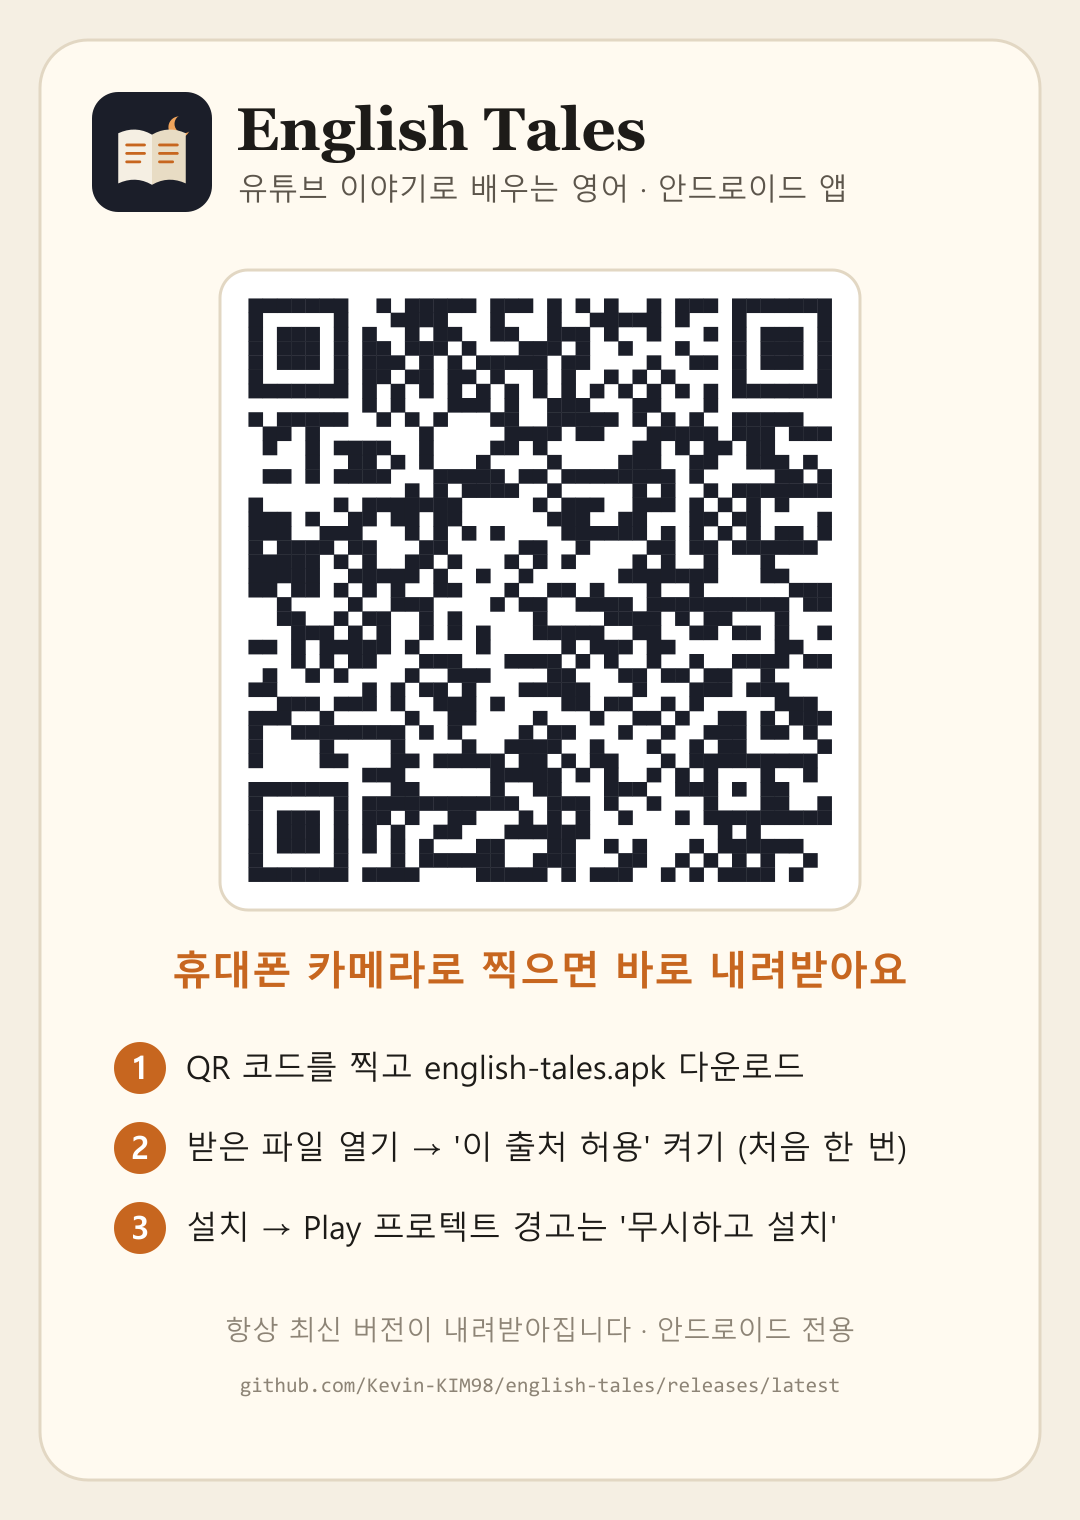
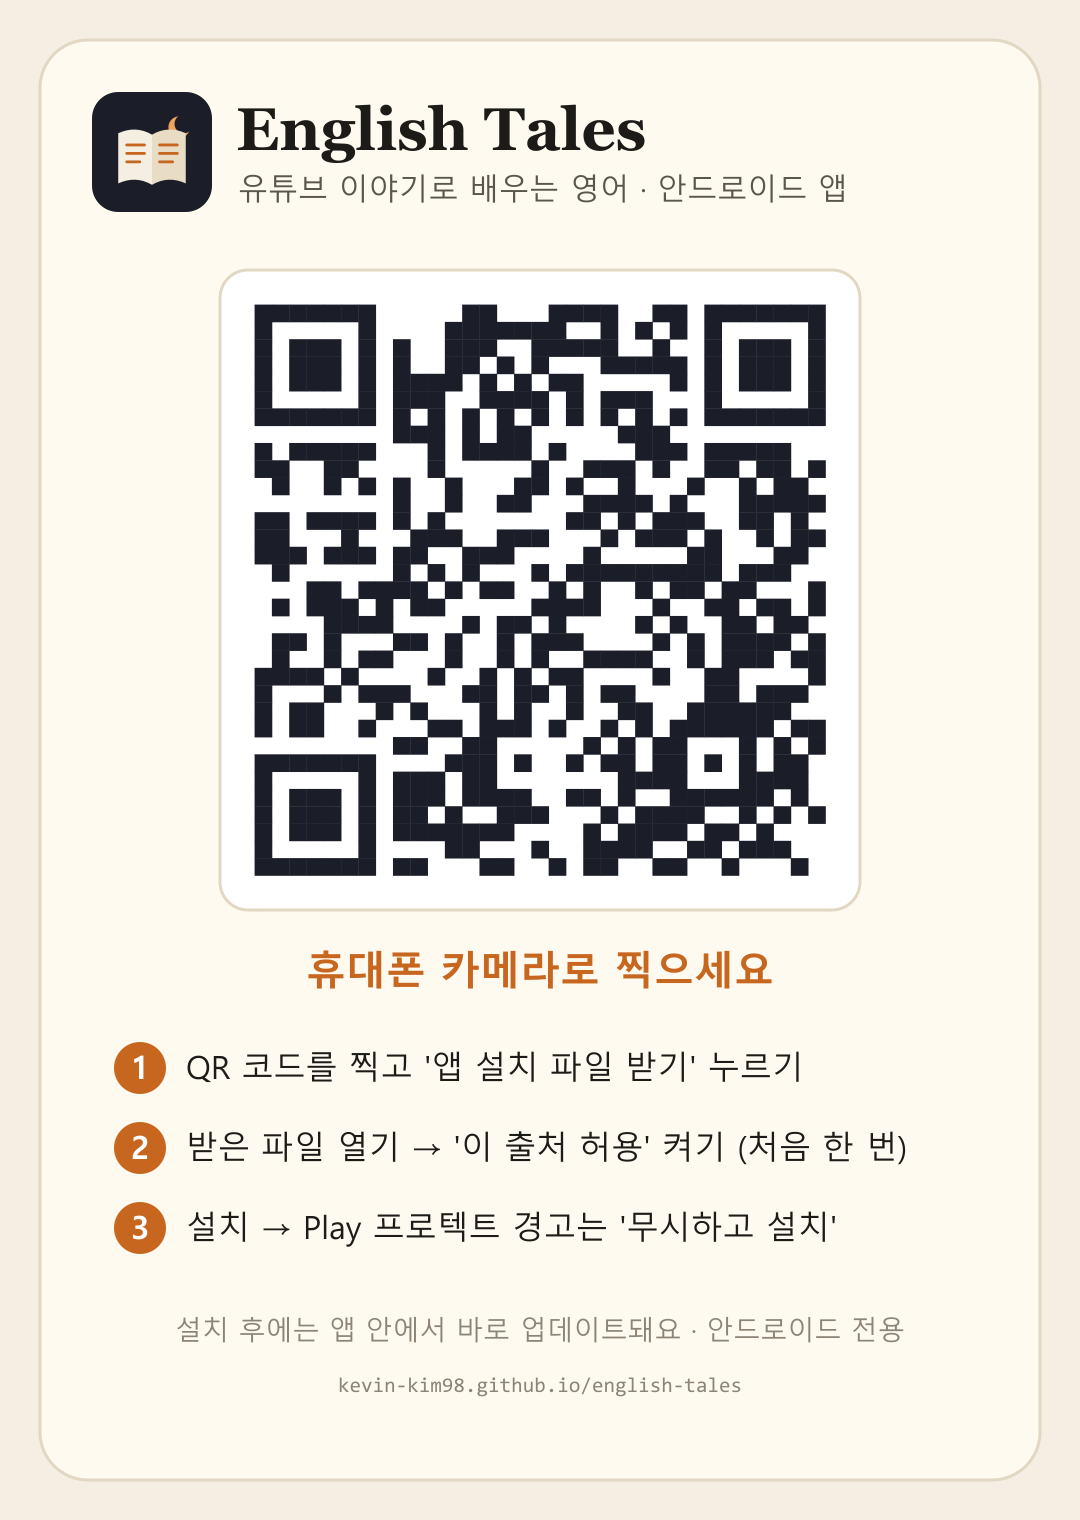
앱 안에서 바로 업데이트 + 설치 QR 404 해결 (GitHub Pages 설치 페이지) (#6)
- 앱 안 업데이트: @capgo/capacitor-updater(자체 호스팅, 외부 전송 없음)로
  새 코드 묶음(web-*.zip)을 내려받아 앱 안에서 바로 적용 — APK 재설치 없음.
  앱 시작·복귀 때 확인해 뒤에서 받아 두고 다음 실행 때 자동 적용, 알림을 누르면 즉시 적용.
  새 코드가 실행에 실패하면 이전 버전으로 자동 복구(notifyAppReady).
- 네이티브(플러그인·android/)가 바뀐 경우에만 새 APK 안내: package.json nativeVersion 과
  APK versionName '1.0.N (nX)' 비교
- 설치 QR 404: github.com 링크가 GitHub 앱·카메라 앱 안에서 열리며 실패하던 문제 →
  GitHub Pages(kevin-kim98.github.io/english-tales) 설치 페이지와 APK로 옮기고 QR 다시 생성
- 배포: main 머지 때 Pages 에 설치 페이지·APK·update.json·web zip 배포, Release 에도 기록

diff --git a/public/lib/update.js b/public/lib/update.js
@@ -1,25 +1,81 @@
-// 앱 업데이트 확인: GitHub Releases 의 최신 APK 와 설치된 빌드 번호를 비교한다
+// 앱 안에서 업데이트
+// - 화면·기능(웹 코드)만 바뀐 경우: 새 코드 묶음(zip)을 내려받아 앱 안에서 바로 적용 (APK 재설치 없음)
+//   → @capgo/capacitor-updater (자체 호스팅 모드, 외부 서버·통계 전송 없음)
+// - 안드로이드 네이티브 부분(플러그인 등)이 바뀐 경우에만 새 APK 설치가 필요
+// 업데이트 파일은 GitHub Pages(https://kevin-kim98.github.io/english-tales/)에 main 머지 때마다 올라간다.
 import info from '../build-info.js';
-import { http } from './net.js';
+import { http, isNative } from './net.js';
 
 export const appInfo = info;
+export const SITE = 'https://kevin-kim98.github.io/english-tales/';
 
-/** @returns {Promise<null | { version: string, build: number, url: string, notes: string }>} */
-export async function checkUpdate() {
-  if (!info.repo) return null;
-  const res = await http(`https://api.github.com/repos/${info.repo}/releases/latest`, {
-    headers: { Accept: 'application/vnd.github+json', 'User-Agent': 'english-tales-app' },
-    timeout: 10000,
-  });
-  if (!res.ok) return null;
-  const rel = res.json();
-  const build = Number(String(rel.tag_name).split('.').pop());
-  const apk = rel.assets?.find((a) => a.name.endsWith('.apk'));
-  if (!apk || !(build > info.build)) return null;
-  return { version: rel.tag_name.replace(/^v/, ''), build, url: apk.browser_download_url, notes: rel.body || '' };
+const updater = () => globalThis.Capacitor?.Plugins?.CapacitorUpdater;
+const AppPlugin = () => globalThis.Capacitor?.Plugins?.App;
+
+/** 설치된 APK의 네이티브 수준 (versionName '1.0.12 (n2)' 의 n2). 업데이트 기능이 없던 예전 APK는 0 */
+async function installedNative() {
+  if (!isNative()) return Infinity;
+  try {
+    const { version } = await AppPlugin().getInfo();
+    return Number(String(version).match(/\(n(\d+)\)/)?.[1] || 0);
+  } catch {
+    return 0;
+  }
 }
 
-/** APK 받기: 시스템 브라우저로 열면 내려받은 뒤 '설치' 를 누를 수 있다 */
+/** 앱이 정상적으로 떴음을 알린다. 이걸 안 부르면 새 코드에 문제가 있다고 보고 이전 버전으로 되돌린다. */
+export function markAppReady() {
+  updater()?.notifyAppReady?.().catch(() => {});
+}
+
+/**
+ * @returns {Promise<null | { version, build, kind: 'web'|'apk', web, apk, notes }>}
+ */
+export async function checkUpdate() {
+  const res = await http(`${SITE}update.json?t=${Date.now()}`, { timeout: 10000 });
+  if (!res.ok) return null;
+  const u = res.json();
+  if (!(u.build > info.build)) return null;
+  const needsApk = u.native > (await installedNative()) || !updater();
+  return {
+    version: u.version,
+    build: u.build,
+    kind: needsApk ? 'apk' : 'web',
+    web: SITE + u.web,
+    apk: SITE + (u.apk || 'english-tales.apk'),
+    notes: u.notes || '',
+  };
+}
+
+let downloaded = null; // { build, id } 이미 받아 둔 새 코드
+
+/** 새 코드를 뒤에서 내려받아 둔다. 다음에 앱을 다시 열 때 자동 적용 (next) */
+export async function prepareWebUpdate(u, onProgress) {
+  const up = updater();
+  if (!up || u.kind !== 'web') return null;
+  if (downloaded?.build === u.build) return downloaded;
+  const handle = onProgress ? await up.addListener('download', (e) => onProgress(e.percent ?? 0)) : null;
+  try {
+    const bundle = await up.download({ url: u.web, version: u.version });
+    await up.next({ id: bundle.id });
+    downloaded = { build: u.build, id: bundle.id };
+    return downloaded;
+  } finally {
+    handle?.remove?.();
+  }
+}
+
+/** 지금 바로 업데이트: 웹 코드는 내려받아 즉시 적용(앱이 새로 뜸), 네이티브 변경은 APK 내려받기 */
+export async function applyUpdate(u, onProgress) {
+  if (u.kind === 'web') {
+    const d = await prepareWebUpdate(u, onProgress);
+    await updater().set({ id: d.id }); // 이 줄에서 앱이 새 버전으로 다시 시작된다
+    return;
+  }
+  openDownload(u.apk);
+}
+
+/** APK 받기: 시스템 브라우저로 열면 내려받은 뒤 '설치' 를 누를 수 있다 (github.com 이 아닌 Pages 주소) */
 export function openDownload(url) {
   const browser = globalThis.Capacitor?.Plugins?.Browser;
   if (browser) browser.open({ url });

diff --git a/site/index.html b/site/index.html
@@ -1,0 +1,81 @@
+<!doctype html>
+<html lang="ko">
+<head>
+  <meta charset="utf-8" />
+  <meta name="viewport" content="width=device-width, initial-scale=1" />
+  <title>English Tales 설치</title>
+  <meta name="description" content="유튜브 이야기로 배우는 영어 — 안드로이드 앱 설치" />
+  <link rel="icon" href="icon.svg" type="image/svg+xml" />
+  <style>
+    :root {
+      --paper: #f5efe3; --card: #fffaf0; --ink: #1d1b18; --ink-2: #5c554b; --ink-3: #8d8476;
+      --line: #e2d7c3; --accent: #c7661f; --accent-ink: #fff; --accent-soft: #f6dcc2;
+    }
+    @media (prefers-color-scheme: dark) {
+      :root { --paper: #12141c; --card: #1b1e29; --ink: #f1ebdf; --ink-2: #b9b1a3; --ink-3: #847d71; --line: #2c3142; --accent: #f0a45b; --accent-ink: #1a1206; --accent-soft: #3a2a1c; }
+    }
+    * { box-sizing: border-box; }
+    body { margin: 0; background: var(--paper); color: var(--ink); font: 16px/1.6 system-ui, -apple-system, 'Apple SD Gothic Neo', 'Malgun Gothic', sans-serif; }
+    main { max-width: 480px; margin: 0 auto; padding: 28px 16px 40px; }
+    .head { display: flex; gap: 14px; align-items: center; }
+    .head img { width: 64px; height: 64px; border-radius: 16px; }
+    h1 { font: 700 28px/1.2 Georgia, serif; margin: 0; }
+    .sub { color: var(--ink-2); font-size: 14px; }
+    .card { background: var(--card); border: 1px solid var(--line); border-radius: 18px; padding: 18px; margin-top: 18px; }
+    .dl { display: flex; align-items: center; justify-content: center; gap: 8px; width: 100%; min-height: 56px; border-radius: 16px; background: var(--accent); color: var(--accent-ink); font-size: 18px; font-weight: 700; text-decoration: none; }
+    .ver { text-align: center; color: var(--ink-3); font-size: 13px; margin-top: 8px; }
+    ol { padding-left: 22px; margin: 6px 0 0; }
+    li { margin: 8px 0; }
+    b { color: var(--accent); }
+    .note { font-size: 13.5px; color: var(--ink-2); }
+    .note code { background: var(--accent-soft); padding: 1px 6px; border-radius: 6px; word-break: break-all; }
+    h2 { font-size: 16px; margin: 0 0 4px; }
+  </style>
+</head>
+<body>
+  <main>
+    <div class="head">
+      <img src="icon.svg" alt="" />
+      <div>
+        <h1>English Tales</h1>
+        <div class="sub">유튜브 이야기로 배우는 영어 · 안드로이드 앱</div>
+      </div>
+    </div>
+
+    <div class="card">
+      <a class="dl" href="english-tales.apk" download>⬇ 앱 설치 파일 받기</a>
+      <div class="ver" id="ver">최신 버전</div>
+    </div>
+
+    <div class="card">
+      <h2>설치 순서</h2>
+      <ol>
+        <li>위 버튼으로 <b>english-tales.apk</b> 를 내려받습니다.</li>
+        <li>받은 파일을 열고, 처음 한 번은 <b>이 출처 허용</b>을 켭니다.</li>
+        <li><b>설치</b>를 누릅니다. Play 프로텍트 경고가 나오면 <b>무시하고 설치</b>.</li>
+      </ol>
+    </div>
+
+    <div class="card note">
+      <h2>설치한 뒤에는</h2>
+      새 버전은 <b>앱 안에서 바로 업데이트</b>됩니다. 앱 첫 화면의 "새 버전" 알림을 누르거나, 그냥 두면 다음에 앱을 열 때 자동으로 적용돼요.
+      이 페이지는 처음 설치할 때만 필요합니다.
+    </div>
+
+    <div class="card note">
+      <h2>파일이 안 받아질 때</h2>
+      GitHub 앱이나 카메라 앱 안에서 열렸다면, 오른쪽 위 메뉴의 <b>브라우저에서 열기</b>(Chrome·삼성 인터넷)를 누른 뒤 다시 받아 보세요.<br />
+      주소: <code>kevin-kim98.github.io/english-tales</code>
+    </div>
+  </main>
+  <script>
+    fetch('update.json?t=' + Date.now())
+      .then((r) => r.json())
+      .then((u) => {
+        const d = u.date ? ' · ' + new Date(u.date).toLocaleDateString('ko-KR') : '';
+        document.getElementById('ver').textContent = `최신 버전 ${u.version}${d} · 약 ${u.apkSizeMB || 4}MB · 안드로이드 전용`;
+      })
+      .catch(() => {});
+  </script>
+</body>
+</html>

diff --git a/dev/server.js b/dev/server.js
@@ -9,7 +9,7 @@ const here = path.dirname(fileURLToPath(import.meta.url));
 const PUBLIC = path.join(here, '..', 'public');
 const PORT = Number(process.env.PORT || 5173);
 const MIME = { '.html': 'text/html; charset=utf-8', '.js': 'text/javascript; charset=utf-8', '.css': 'text/css; charset=utf-8', '.svg': 'image/svg+xml', '.json': 'application/json', '.txt': 'text/plain; charset=utf-8' };
-const ALLOWED = /^https:\/\/(www\.youtube\.com|translate\.googleapis\.com|api\.mymemory\.translated\.net|api\.dictionaryapi\.dev|api\.github\.com)\//;
+const ALLOWED = /^https:\/\/(www\.youtube\.com|translate\.googleapis\.com|api\.mymemory\.translated\.net|api\.dictionaryapi\.dev|api\.github\.com|kevin-kim98\.github\.io)\//;
 
 async function readJson(req) {
   const chunks = [];

diff --git a/README.md b/README.md
@@ -8,16 +8,13 @@
 
 <p align="center"><img src="docs/install-qr-card.png" alt="English Tales 설치 QR 코드" width="360"></p>
 
-휴대폰 카메라로 QR 코드를 찍으면 **항상 최신 버전** APK가 바로 내려받아집니다.
-(주소: `https://github.com/Kevin-KIM98/english-tales/releases/latest/download/english-tales.apk`,
-QR만 있는 이미지: [docs/install-qr.png](docs/install-qr.png))
+1. 휴대폰 카메라로 QR 코드를 찍거나 **https://kevin-kim98.github.io/english-tales/** 를 엽니다.
+2. **앱 설치 파일 받기** → 받은 파일 열기 → 처음 한 번은 **이 출처 허용** → **설치**.
+3. **처음 한 번만 설치하면 끝.** 이후 프로그램을 수정해 main 에 머지하면
+   앱이 새 버전을 스스로 받아 **앱 안에서 바로 업데이트**합니다 (알림을 누르면 즉시, 그냥 두면 다음 실행 때 자동).
+   안드로이드 네이티브 부분(플러그인 등)을 바꾼 경우에만 앱이 새 설치 파일을 내려받게 안내합니다.
 
-
-1. 휴대폰에서 이 저장소의 [**Releases**](https://github.com/Kevin-KIM98/english-tales/releases/latest) 를 열고
-   `english-tales-v1.0.N.apk` 를 눌러 내려받습니다.
-2. 내려받은 파일을 열어 **설치** (처음 한 번은 "출처를 알 수 없는 앱 설치 허용"을 켜야 합니다).
-3. 이후 새 버전이 나오면 앱 첫 화면과 **설정 → 앱 정보**에 "업데이트"가 표시됩니다. 누르면 새 APK를 받아 덮어 설치합니다.
-   (학습 기록·단어장은 그대로 유지됩니다)
+> 카메라·GitHub 앱 안에서 열려 파일이 안 받아지면, 메뉴의 **브라우저에서 열기**를 누른 뒤 다시 받으세요.
 
 > 더 자연스러운 발음: 휴대폰 **설정 → 일반 → 텍스트 음성 변환(TTS)** 에서 엔진을 *Google 음성 서비스*로 하고
 > 영어(미국) 음성 데이터를 설치하세요. 앱 **설정 → 발음 → 음성 데이터** 버튼으로도 바로 갈 수 있습니다.
@@ -49,12 +46,15 @@ QR만 있는 이미지: [docs/install-qr.png](docs/install-qr.png))
 GitHub에서 수정 (새 브랜치 + Pull Request)
   └▶ CI 검사 (ci.yml: 빌드 데이터 생성 · 문법 검사 · 테스트)  ── 통과해야 머지 가능
        └▶ main 머지
-            └▶ Android Release (android.yml): 테스트 → APK 빌드·서명 → GitHub Release v1.0.<실행번호>
-                 └▶ 휴대폰 앱이 새 버전을 알려 줌 → 업데이트
+            └▶ Android Release (android.yml): 테스트 → APK 빌드·서명 + 앱 안 업데이트용 코드 묶음(web-*.zip)
+                 └▶ GitHub Pages(설치 페이지·APK·update.json) 배포 + GitHub Release 기록
+                      └▶ 휴대폰 앱이 update.json 확인 → 앱 안에서 바로 업데이트
 ```
 
 - 파일을 GitHub에서 열고 ✏ → **Create a new branch … and start a pull request** → 검사 ✅ → **Merge**.
 - `main` 은 보호되어 있어 PR + 검사 통과가 필요합니다.
+- `android/` 폴더나 안드로이드 플러그인(package.json 의 @capacitor…)을 바꾸면 `package.json` 의 **`nativeVersion`** 을 1 올리세요.
+  그래야 앱이 '앱 안 업데이트' 대신 새 설치 파일을 받도록 안내합니다. 화면·기능(public/) 수정은 그대로 두면 됩니다.
 - APK 서명 키는 GitHub Secrets(`ANDROID_KEYSTORE_BASE64` 등)에만 있습니다. 원본은 로컬 `english-tales-signing` 폴더에 보관 —
   **잃어버리면 기존 설치 위에 업데이트할 수 없으니 따로 백업하세요.**
 
